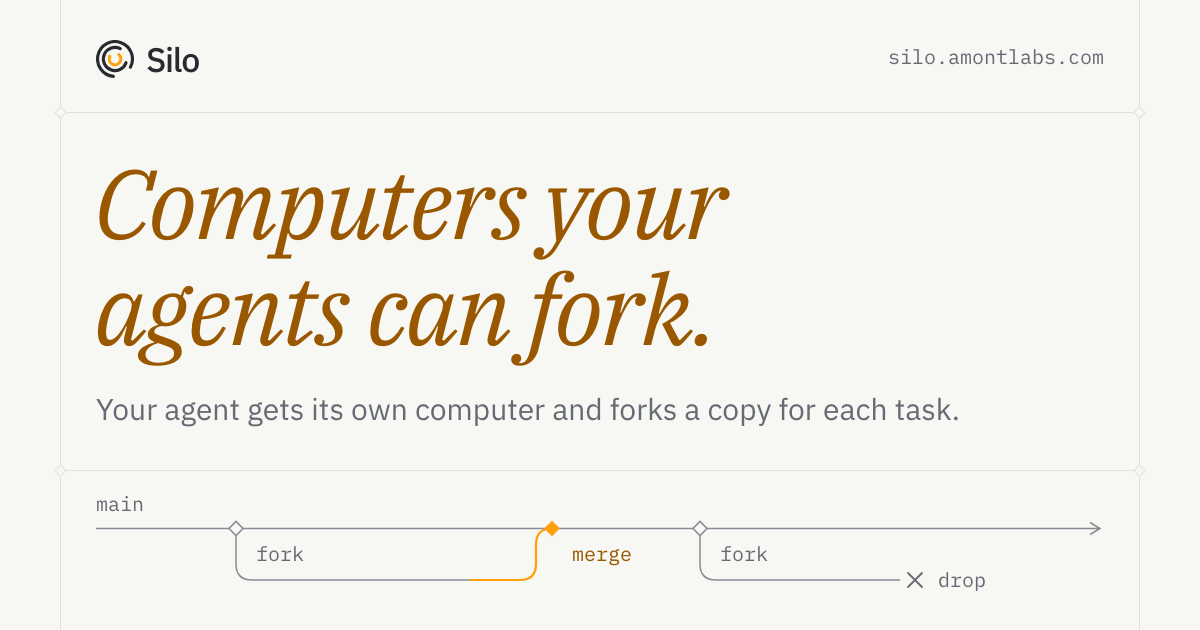
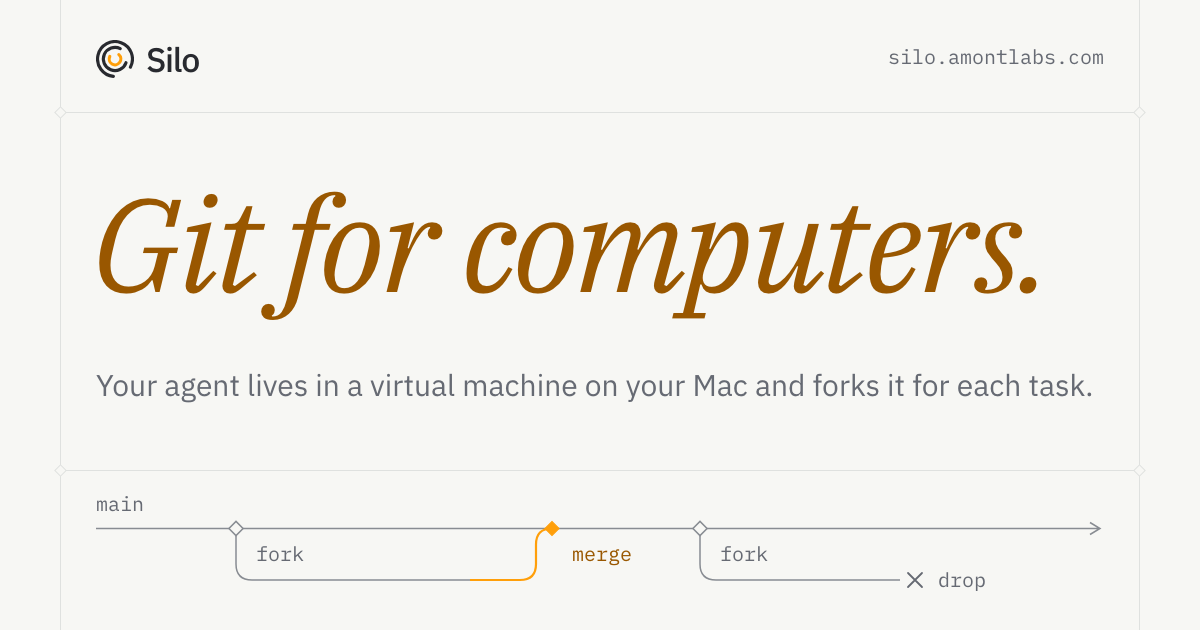
Home: the headline is "Git for computers.", and the pitch says the agent lives in a virtual machine on your Mac and forks it for each task, then that you see everything a fork changed and merge it back or drop it; the tab title, the share tags and the first line of AGENTS.md follow, and the share im

Changed region(s): [[0.0617, 0.2714, 0.925, 0.6937]]

diff --git a/website/index.html b/website/index.html
@@ -28,19 +28,19 @@
     <meta charset="UTF-8" />
     <meta name="viewport" content="width=device-width, initial-scale=1" />
     <meta name="theme-color" content="#f7f7f4" />
-    <meta name="description" content="Your agent gets its own computer and forks a copy for each task. You see everything the copy changed, then merge it or drop it." />
-    <meta property="og:title" content="Silo — Computers your agents can fork" />
-    <meta property="og:description" content="Your agent gets its own computer and forks a copy for each task. You see everything the copy changed, then merge it or drop it." />
+    <meta name="description" content="Your agent lives in a virtual machine on your Mac and forks it for each task. You see everything a fork changed, then merge it back or drop it." />
+    <meta property="og:title" content="Silo — Git for computers" />
+    <meta property="og:description" content="Your agent lives in a virtual machine on your Mac and forks it for each task. You see everything a fork changed, then merge it back or drop it." />
     <meta property="og:type" content="website" />
     <meta property="og:url" content="https://silo.amontlabs.com/" />
     <meta property="og:site_name" content="Silo" />
     <meta property="og:image" content="https://silo.amontlabs.com/og.png" />
     <meta property="og:image:width" content="1200" />
     <meta property="og:image:height" content="630" />
-    <meta property="og:image:alt" content="Silo: computers your agents can fork." />
+    <meta property="og:image:alt" content="Silo: Git for computers." />
     <meta name="twitter:card" content="summary_large_image" />
     <link rel="canonical" href="https://silo.amontlabs.com/" />
-    <title>Silo — Computers your agents can fork</title>
+    <title>Silo — Git for computers</title>
     <link rel="icon" type="image/svg+xml" href="/favicon.svg" />
     <!-- First-paint sizing also applies before external styles arrive. -->
     <style>
@@ -130,10 +130,10 @@
           <span class="button primary small">Open<svg class="go" aria-hidden="true"><use href="#go" /></svg></span>
         </a>
         <section class="hero joint" id="why" aria-labelledby="hero-title">
-          <h1 id="hero-title">Computers your agents can fork.</h1>
+          <h1 id="hero-title">Git for computers.</h1>
           <p class="pitch">
-            <span>Your agent gets its own computer and forks a copy for each task.</span>
-            <span>You see everything the copy changed, then merge it or drop it.</span>
+            <span>Your agent lives in a virtual machine on your Mac and forks it for each task.</span>
+            <span>You see everything a fork changed, then merge it back or drop it.</span>
           </p>
           <div class="flow" id="flow">
             <figure aria-labelledby="hero-title" aria-describedby="flow-caption">

diff --git a/website/src/home.test.ts b/website/src/home.test.ts
@@ -8,7 +8,7 @@ const css = ['src/style.css', 'src/flow.css', 'src/cards.css'].map(read).join('\
 const scripts = ['src/home.ts', 'src/pictures.ts', 'src/flow.ts', 'src/cards.ts', 'src/scene.ts'].map(read).join('\n');
 const theme = readFileSync(join(process.cwd(), 'public/theme.js'), 'utf8');
 const workshop = readFileSync(join(process.cwd(), 'workshop/index.html'), 'utf8');
-const PITCH = 'Your agent gets its own computer and forks a copy for each task. You see everything the copy changed, then merge it or drop it.';
+const PITCH = 'Your agent lives in a virtual machine on your Mac and forks it for each task. You see everything a fork changed, then merge it back or drop it.';
 
 const parse = (source: string) => new DOMParser().parseFromString(source, 'text/html');
 const doc = parse(html);
@@ -17,7 +17,7 @@ const text = (selector: string, from: Document = doc) =>
 
 describe('the home page', () => {
   it('leads with the headline and the pitch', () => {
-    expect(text('h1')).toEqual(['Computers your agents can fork.']);
+    expect(text('h1')).toEqual(['Git for computers.']);
     expect(text('.pitch')).toEqual([PITCH]);
     expect(doc.querySelector('meta[name="description"]')?.getAttribute('content')).toBe(PITCH);
     expect(doc.querySelector('meta[property="og:description"]')?.getAttribute('content')).toBe(PITCH);

diff --git a/website/scripts/share-image.html b/website/scripts/share-image.html
@@ -48,17 +48,17 @@
       }
       h1 {
         position: absolute;
-        left: 94px;
-        top: 150px;
+        left: 92px;
+        top: 172px;
         margin: 0;
-        font: italic 400 98px/1.08 'IBM Plex Serif', Georgia, serif;
+        font: italic 400 132px/1.08 'IBM Plex Serif', Georgia, serif;
         letter-spacing: -0.024em;
         color: #995700;
       }
       .pitch {
         position: absolute;
         left: 96px;
-        top: 388px;
+        top: 364px;
         margin: 0;
         font-size: 30px;
         line-height: 1.4;
@@ -111,8 +111,8 @@
       <span>Silo</span>
     </div>
     <p class="address">silo.amontlabs.com</p>
-    <h1>Computers your<br />agents can fork.</h1>
-    <p class="pitch">Your agent gets its own computer and forks a copy for each task.</p>
+    <h1>Git for computers.</h1>
+    <p class="pitch">Your agent lives in a virtual machine on your Mac and forks it for each task.</p>
     <span class="label" style="left: 96px; top: 490px">main</span>
     <span class="label" style="left: 256px; top: 540px">fork</span>
     <span class="label merge" style="left: 572px; top: 540px">merge</span>

diff --git a/AGENTS.md b/AGENTS.md
@@ -1,6 +1,6 @@
 # Silo
 
-Computers your agents can fork. Silo is built one feature at a time. This repository holds the
+Git for computers. Silo is built one feature at a time. This repository holds the
 plan, the public site, and the code of the features built so far.
 
 - `plan/` is the plan: what Silo is (`PRODUCT.md`), every feature (`features/<id>.json`, notes in
